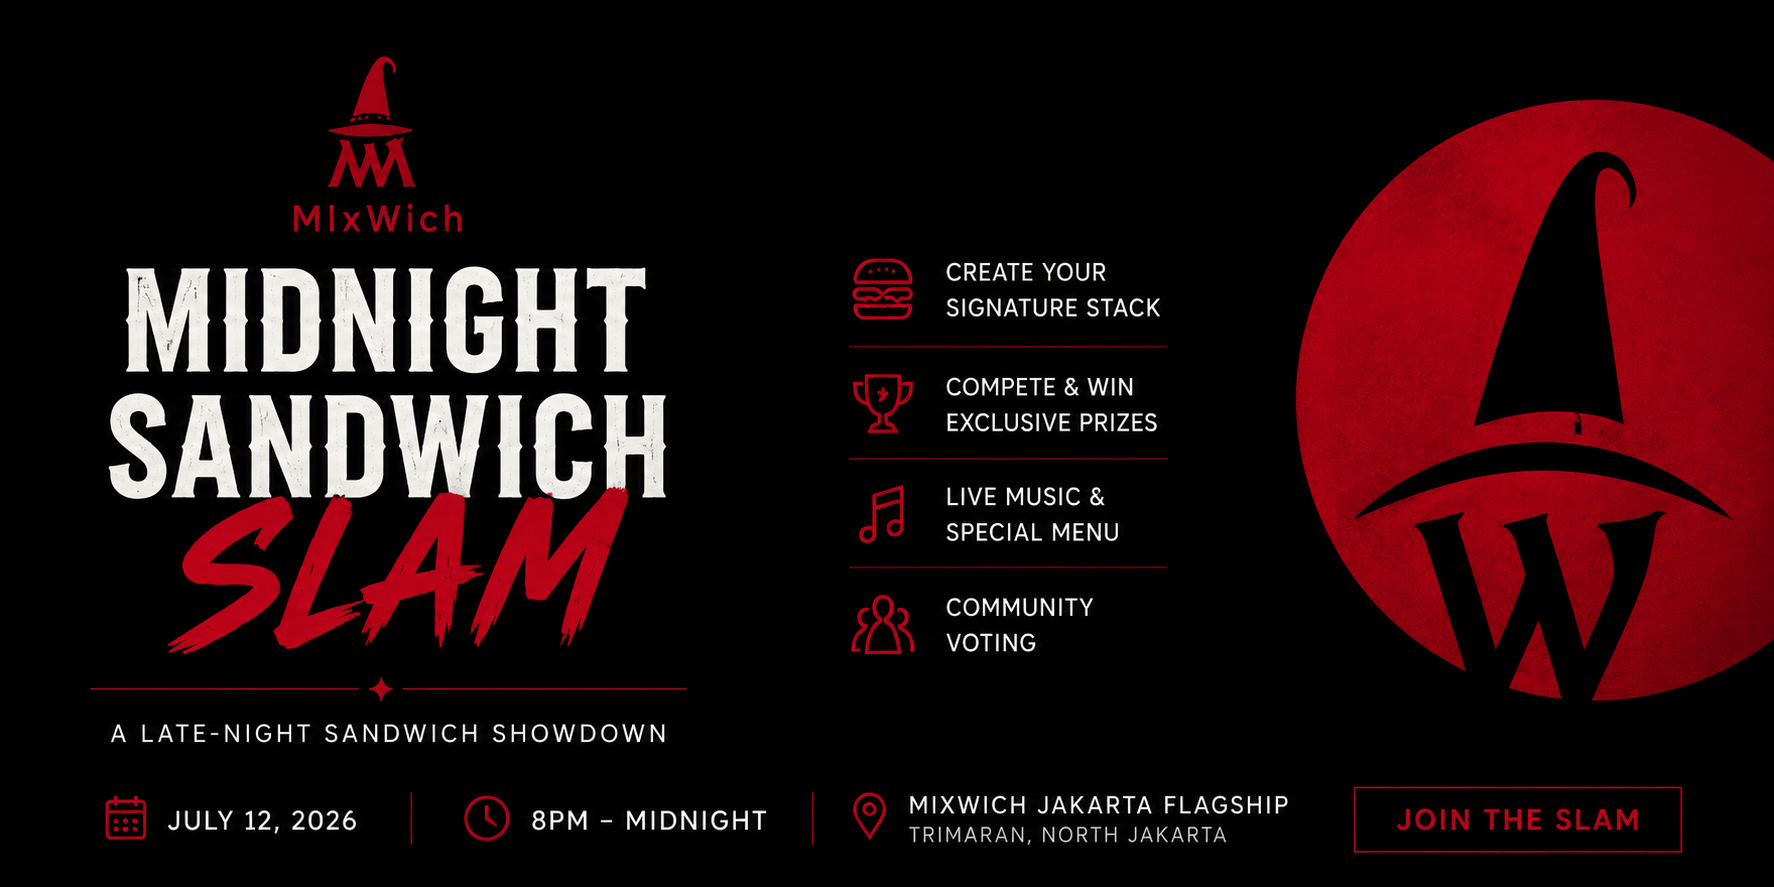
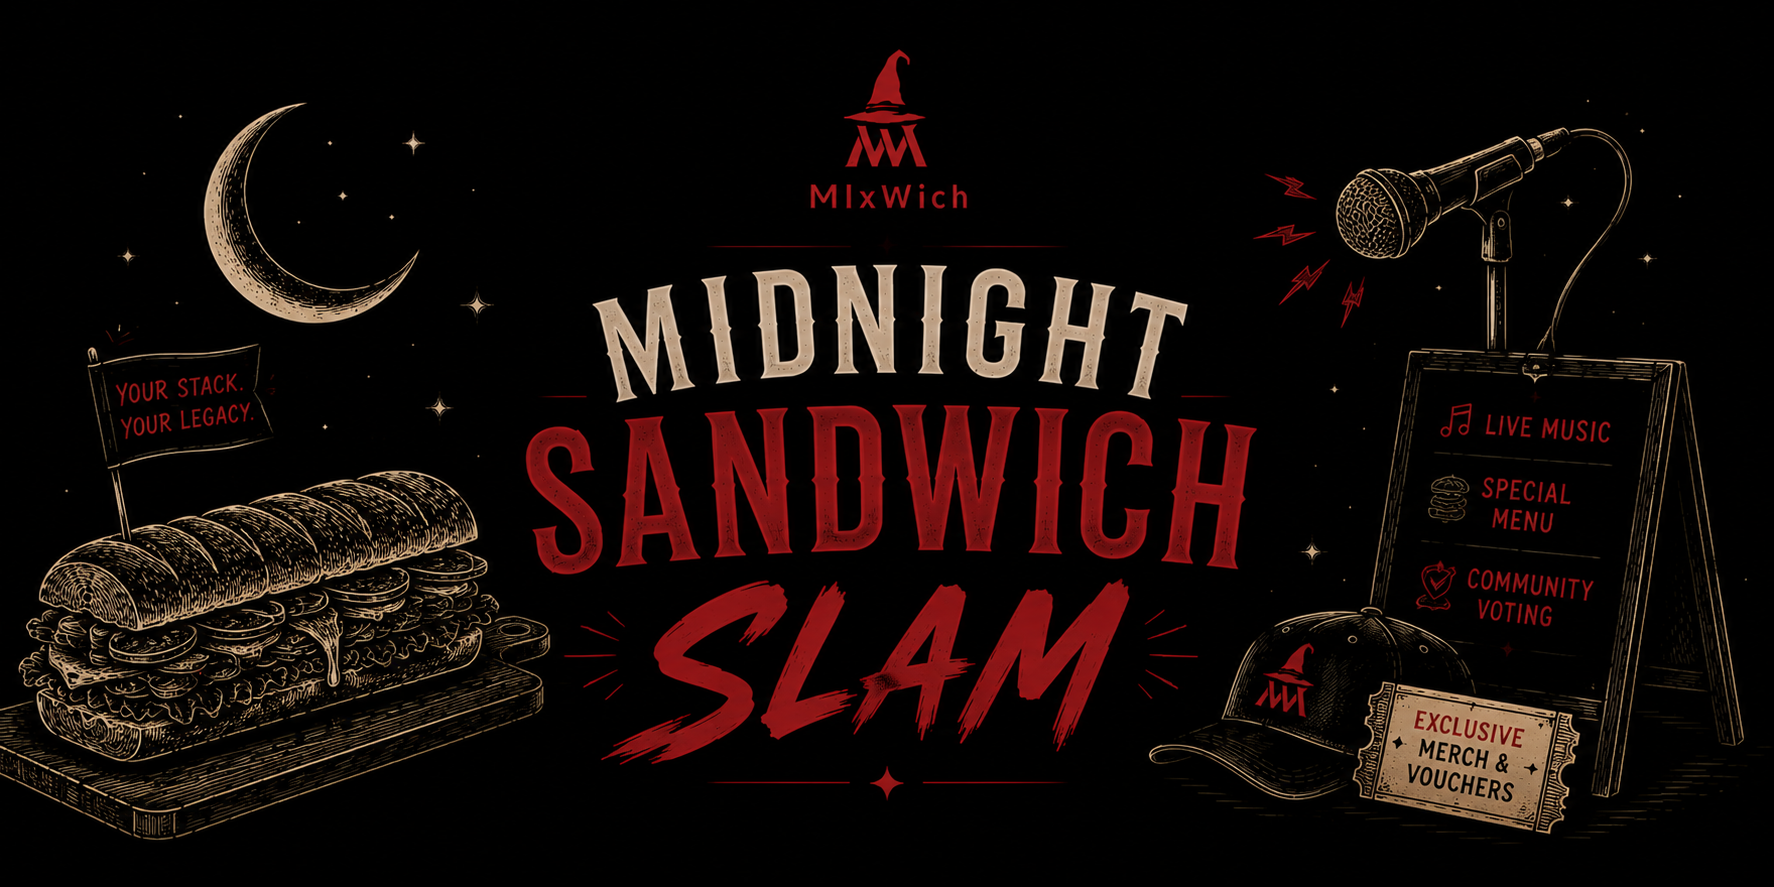
added pics for events

diff --git a/login.html b/login.html
@@ -1,64 +1,90 @@
-<!DOCTYPE html>
+<!doctype html>
 <html lang="en">
-<head>
-  <meta charset="UTF-8">
-  <meta name="viewport" content="width=device-width, initial-scale=1.0">
-  <title>MixWich Login</title>
-  <link rel="icon" type="image/png" href="img/Logo.png">
-  <link rel="stylesheet" href="style.css">
-</head>
-<body class="login-page-body">
-  <header class="site-header login-header">
-    <nav class="login-navbar" aria-label="Login navigation">
-      <a class="brand login-brand" href="index.html" aria-label="MixWich home">
-        <img src="img/Logo.png" alt="MixWich">
-      </a>
+  <head>
+    <meta charset="UTF-8" />
+    <meta name="viewport" content="width=device-width, initial-scale=1.0" />
+    <title>MixWich Login</title>
+    <link rel="icon" type="image/png" href="img/Logo.png" />
+    <link rel="stylesheet" href="style.css" />
+  </head>
+  <body class="login-page-body">
+    <header class="site-header login-header">
+      <nav class="login-navbar" aria-label="Login navigation">
+        <a
+          class="brand login-brand"
+          href="index.html"
+          aria-label="MixWich home"
+        >
+          <img src="img/Logo.png" alt="MixWich" />
+        </a>
 
-      <div class="login-nav-action">
-        <span>Not a member?</span>
-        <a href="signup.html">Sign Up</a>
-      </div>
-    </nav>
-  </header>
+        <div class="login-nav-action">
+          <span>Not a member?</span>
+          <a href="signup.html">Sign Up</a>
+        </div>
+      </nav>
+    </header>
 
-  <main class="login-main">
-    <section class="login-hero" aria-labelledby="login-title">
-      <div class="login-showcase" aria-hidden="true">
-        <img class="login-showcase-logo" src="img/Logo.png" alt="">
-        <img class="login-showcase-image" src="img/image.png" alt="">
-      </div>
+    <main class="login-main">
+      <section class="login-hero" aria-labelledby="login-title">
+        <div class="login-showcase" aria-hidden="true">
+          <img class="login-showcase-logo" src="img/Logo.png" alt="" />
+          <img class="login-showcase-image" src="img/signin.png" alt="" />
+        </div>
 
-      <section class="login-card">
-        <h1 id="login-title">Welcome Back</h1>
-        <p>The lab has been waiting for you</p>
+        <section class="login-card">
+          <h1 id="login-title">Welcome Back</h1>
+          <p>The lab has been waiting for you</p>
 
-        <form class="login-form" id="join-form" novalidate>
-          <div class="form-field">
-            <label for="join-email">Email Address</label>
-            <input id="join-email" name="email" type="email" placeholder="[email redacted]" autocomplete="email">
-            <small class="field-error" aria-live="polite"></small>
-          </div>
-
-          <div class="form-field">
-            <label for="join-password">Password</label>
-            <div class="password-field">
-              <input id="join-password" name="password" type="password" placeholder="Min. 8 characters" autocomplete="new-password">
-              <button class="password-toggle" type="button" aria-label="Show password">
-                <span></span>
-              </button>
+          <form class="login-form" id="join-form" novalidate>
+            <div class="form-field">
+              <label for="join-email">Email Address</label>
+              <input
+                id="join-email"
+                name="email"
+                type="email"
+                placeholder="[email redacted]"
+                autocomplete="email"
+              />
+              <small class="field-error" aria-live="polite"></small>
             </div>
-            <small class="field-error" aria-live="polite"></small>
-          </div>
 
-          <button class="login-submit" type="submit">Sign In</button>
-          <p class="form-message" id="join-form-message" aria-live="polite"></p>
-        </form>
+            <div class="form-field">
+              <label for="join-password">Password</label>
+              <div class="password-field">
+                <input
+                  id="join-password"
+                  name="password"
+                  type="password"
+                  placeholder="Min. 8 characters"
+                  autocomplete="new-password"
+                />
+                <button
+                  class="password-toggle"
+                  type="button"
+                  aria-label="Show password"
+                >
+                  <span></span>
+                </button>
+              </div>
+              <small class="field-error" aria-live="polite"></small>
+            </div>
 
-        <p class="login-card-footer">No account? <a href="signup.html">Sign Up</a></p>
+            <button class="login-submit" type="submit">Sign In</button>
+            <p
+              class="form-message"
+              id="join-form-message"
+              aria-live="polite"
+            ></p>
+          </form>
+
+          <p class="login-card-footer">
+            No account? <a href="signup.html">Sign Up</a>
+          </p>
+        </section>
       </section>
-    </section>
-  </main>
+    </main>
 
-  <script src="script.js"></script>
-</body>
+    <script src="script.js"></script>
+  </body>
 </html>

diff --git a/event.html b/event.html
@@ -73,7 +73,7 @@
               Join our chief Mixologist for a 2-hour intensive course on
               stacking. Visit our nearest locations, limited seats!
             </p>
-            <a class="event-button" href="">Join now!</a>
+            <a class="event-button" href="location.html">Join now!</a>
           </article>
         </div>
       </section>
@@ -84,7 +84,10 @@
         </div>
         <div class="ingredient-grid eventpage">
           <article class="ingredient-card eventpage-cards">
-            <img src="img/events/midnight.png" alt="Nama Bahan 01" />
+            <img
+              src="img/events/midnight.png"
+              alt="Midnight sandwich slam event"
+            />
             <h3>Midnight Sandwich Slam</h3>
             <p>
               A late-night sandwich showdown where guests can create their own
@@ -96,7 +99,7 @@
             <p class="event-price">Rp 75.000</p>
           </article>
           <article class="ingredient-card eventpage-cards">
-            <img src="img/image.png" alt="Nama Bahan 01" />
+            <img src="img/events/covencraft.png" alt="Coven Craft Workshop" />
             <h3>Coven's Craft Workshop</h3>
             <p>
               Learn the secrets behind the perfect sandwich. Our sandwich
@@ -107,7 +110,10 @@
             <p class="event-price">Rp 125.000</p>
           </article>
           <article class="ingredient-card eventpage-cards">
-            <img src="img/image.png" alt="Nama Bahan 01" />
+            <img
+              src="img/events/harvest.png"
+              alt="Harvest of Flavors Festival"
+            />
             <h3>Harvest of Flavors Festival</h3>
             <p>
               Celebrate fresh ingredients with seasonal sandwich creations
@@ -118,7 +124,10 @@
             <p class="event-price">Free Entry!</p>
           </article>
           <article class="ingredient-card eventpage-cards">
-            <img src="img/image.png" alt="Nama Bahan 01" />
+            <img
+              src="img/events/stackoff.png"
+              alt="The Great Stack-Off event"
+            />
             <h3>The Great Stack-Off</h3>
             <p>
               Think you can build the ultimate sandwich? Compete against fellow
@@ -129,7 +138,7 @@
             <p class="event-price">Rp 100.000</p>
           </article>
           <article class="ingredient-card eventpage-cards">
-            <img src="img/image.png" alt="Nama Bahan 01" />
+            <img src="img/events/buildaspell.png" alt="Build-a-Spell event" />
             <h3>Build-a-Spell</h3>
             <p>
               Put your creativity to the test by crafting the most unique
@@ -140,7 +149,10 @@
             <p class="event-price">Rp 50.000</p>
           </article>
           <article class="ingredient-card eventpage-cards">
-            <img src="img/image.png" alt="Nama Bahan 01" />
+            <img
+              src="img/events/secretmenu.png"
+              alt="Secret Menu Society event"
+            />
             <h3>Secret Menu Society</h3>
             <p>
               Gain exclusive access to hidden menu items, experimental recipes,

diff --git a/README.md b/README.md
@@ -2,6 +2,4 @@ prev fix done
 next fix:
 
 1. the mobile responsive reature thing
-2. fix the figma
-3. add pics for the events
-4. add pics for the signup + login
+2. fix the figma + add the thing vale said to add